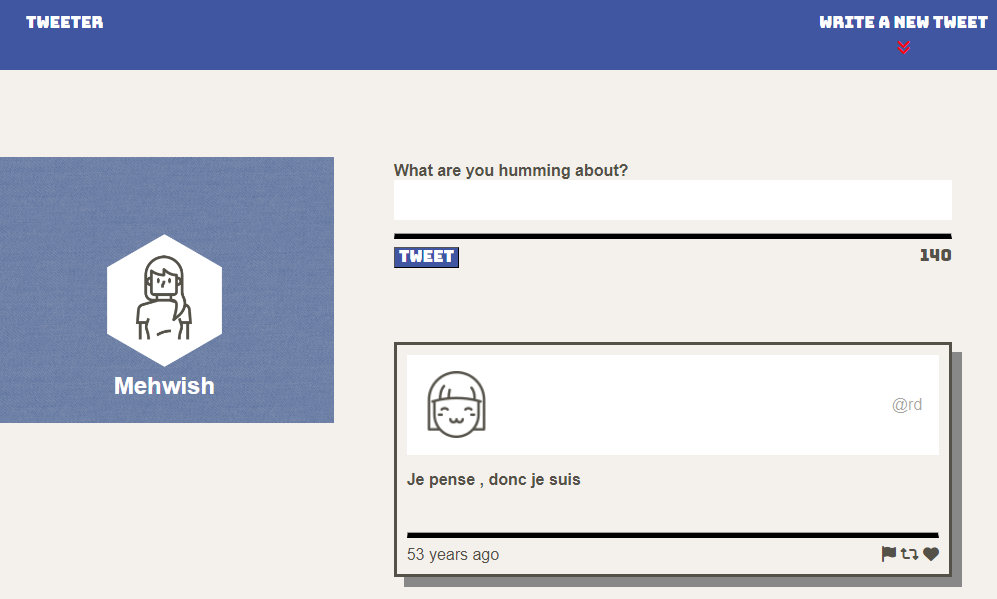
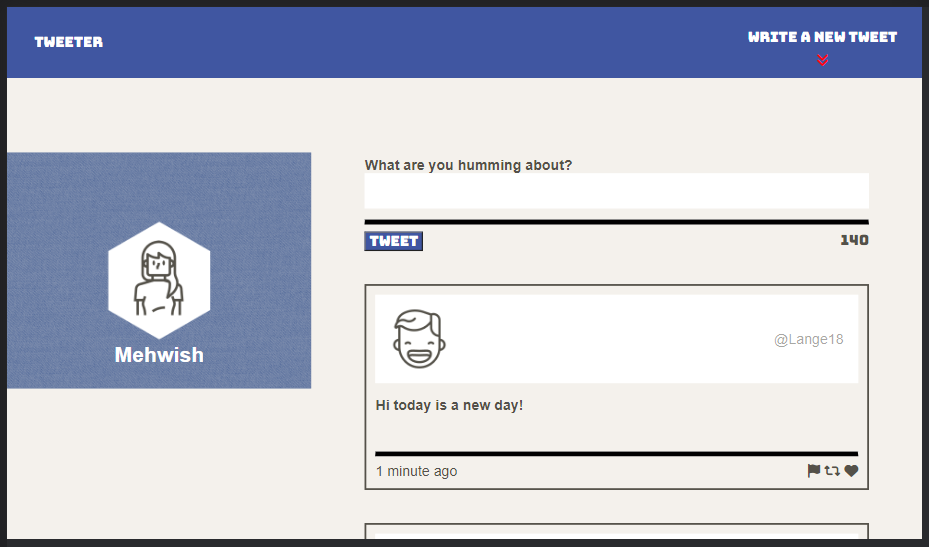
Format nav and add screenshots

Changed region(s): [[0.0, 0.0, 1.0, 1.0], [0.4058, 0.4973, 0.9365, 0.5283], [0.3746, 0.2797, 0.6243, 0.3108]]

diff --git a/public/styles/layout.css b/public/styles/layout.css
@@ -68,8 +68,14 @@ body {
   }
 }
 @media only screen and (min-width: 1024px) {
+  .nav {
+    position: fixed;
+    display: flex;
+    justify-content: space-between;
+    align-items: stretch;
+    z-index: 9999;
+  }
   .header {
-    /* flex-direction: row; */
     width: 33.3%;
     position: relative;
     top: 250px;
